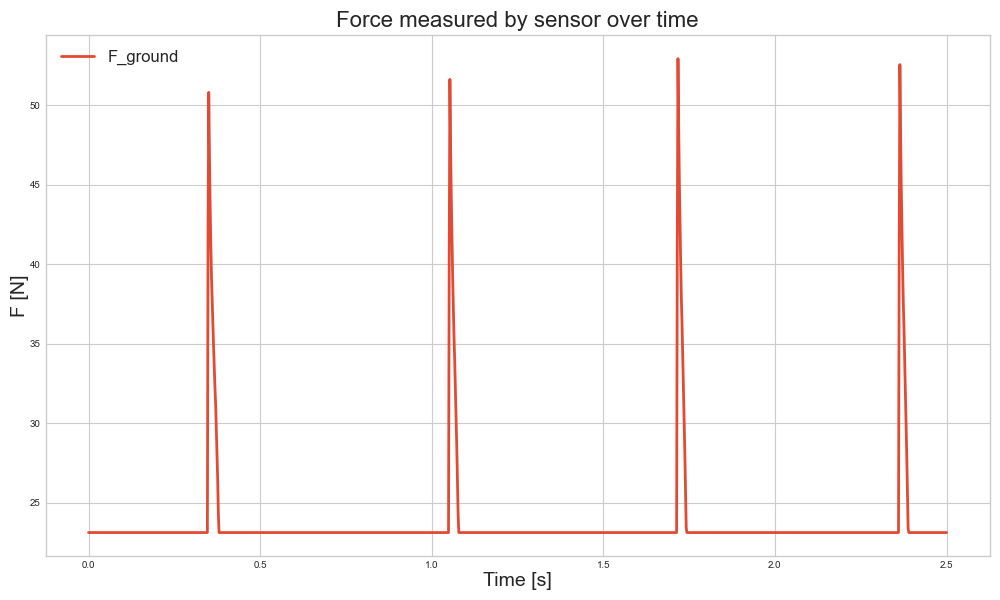
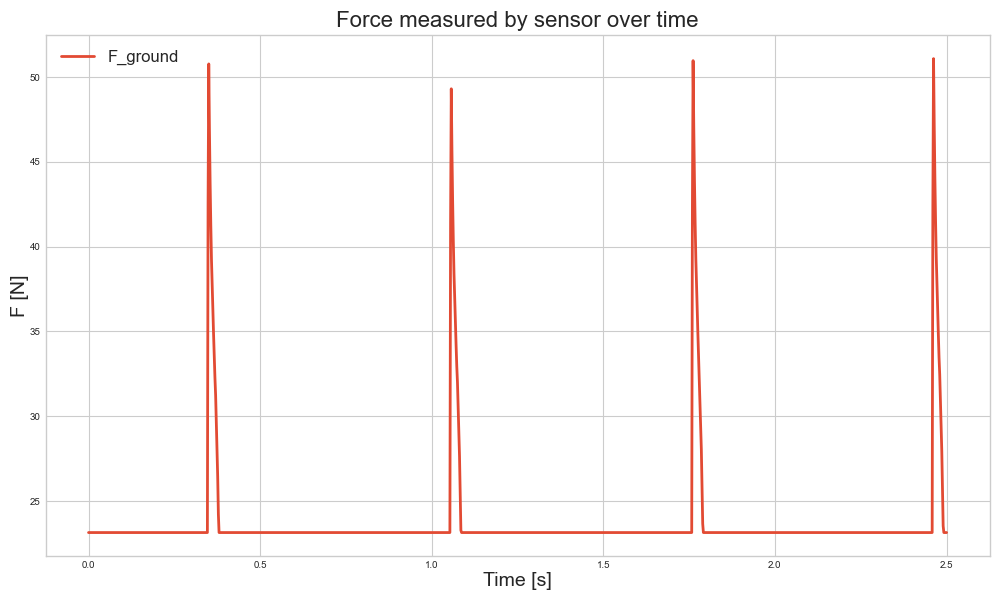
with the plot comparison file

diff --git a/Simulation/plot_comparison.py b/Simulation/plot_comparison.py
@@ -1,0 +1,178 @@
+import mujoco
+import numpy as np
+import matplotlib.pyplot as plt
+import copy
+
+# Importation de tes modules de contrôle
+# Assure-toi que controller.py et controller_lqr.py sont dans le même dossier
+import controller      
+import controller_lqr  
+
+plt.style.use('seaborn-v0_8-whitegrid')
+PI = np.pi
+
+def run_simulation(model_path, control_func, label, sim_time=2.5):
+    """
+    Exécute une simulation complète avec une fonction de contrôle donnée.
+    """
+    print(f"--- Running Simulation for: {label} ---")
+    
+    # Chargement du modèle
+    m = mujoco.MjModel.from_xml_path(model_path)
+    d = mujoco.MjData(m)
+    
+    # Conditions initiales
+    d.qpos[:] = np.array([0, -PI/4, PI/2]) 
+    d.qvel[:] = np.zeros(m.nv)
+    mujoco.mj_forward(m, d)
+    
+    steps = int(sim_time / m.opt.timestep)
+    # Initialisation du dictionnaire de données
+    data = {
+        "time": np.linspace(0, sim_time, steps),
+        "torque_leg": [],
+        "torque_upper": [],
+        "force": [],
+        "pos_x": [],
+        "pos_z": [], # Position du pied Z
+        "hip_z": [], # <-- NOUVEAU : Position de la hanche Z
+        "goal_x": [],
+        "goal_z": [],
+        "length": [],
+        "length_des": []
+    }
+    
+    sensor_id_contact = m.sensor('socle_contact').id
+    hip_sensor_id = m.sensor('hip_position').adr
+    
+    for _ in range(steps):
+        # Lecture capteurs
+        hip_pos = float(d.sensordata[hip_sensor_id]) # Hauteur de la hanche
+        
+        adr = m.sensor_adr[sensor_id_contact]
+        dim = m.sensor_dim[sensor_id_contact]
+        foot_force = d.sensordata[adr:adr+dim]
+        f_norm = np.linalg.norm(foot_force)
+        
+        # Appel contrôleur
+        try:
+            torque, pos, pos_des, L, Ld = control_func(m, d, -0.16, hip_pos, f_norm)
+        except TypeError:
+            torque, pos, pos_des, L, Ld = control_func(d, -0.16, hip_pos, f_norm)
+        
+        # Stockage des données
+        data["torque_upper"].append(torque[0])
+        data["torque_leg"].append(torque[1])
+        data["force"].append(f_norm)
+        data["pos_x"].append(pos[0])
+        data["pos_z"].append(pos[1])
+        data["hip_z"].append(hip_pos) # <-- NOUVEAU : On sauvegarde la hanche
+        data["goal_x"].append(pos_des[0])
+        data["goal_z"].append(pos_des[1])
+        data["length"].append(L)
+        data["length_des"].append(Ld)
+        
+        # Step simulation
+        d.ctrl = torque
+        mujoco.mj_step(m, d)
+        
+    return data
+
+def plot_comparison(results_dict):
+    colors = {"P": "red", "PD": "blue", "LQR": "green"}
+    styles = {"P": "--", "PD": "-", "LQR": "-."}
+    
+    # --- FIGURE 1: POSITION Z DU PIED ---
+    plt.figure(figsize=(10, 6))
+    plt.title("Comparison: Foot Z Position (Relative to Hip)", fontsize=16)
+    for label, data in results_dict.items():
+        plt.plot(data["time"], data["pos_z"], label=label, color=colors[label], linestyle=styles[label], linewidth=2)
+    plt.plot(results_dict["PD"]["time"], results_dict["PD"]["goal_z"], 'k', label="Goal (Swing)", linewidth=3, alpha=0.7)
+    plt.xlabel("Time [s]",fontsize=15)
+    plt.ylabel("Foot Position Z [m]",fontsize=15)
+    plt.legend(fontsize=15)
+    plt.tight_layout()
+    plt.savefig("./display/Compare_Foot_Z.png")
+    
+    # --- FIGURE 2: POSITION X DU PIED ---
+    plt.figure(figsize=(10, 6))
+    plt.title("Comparison: Foot X Tracking (Swing Stability)", fontsize=16)
+    for label, data in results_dict.items():
+        plt.plot(data["time"], data["pos_x"], label=label, color=colors[label], linestyle=styles[label], linewidth=2)
+    plt.plot(results_dict["PD"]["time"], results_dict["PD"]["goal_x"], 'k', label="Goal", linewidth=3, alpha=0.7)
+    plt.xlabel("Time [s]",fontsize=15)
+    plt.ylabel("Foot Position X [m]",fontsize=15)
+    plt.legend(fontsize=15)
+    plt.tight_layout()
+    plt.savefig("./display/Compare_Foot_X.png")
+
+    # --- FIGURE 3: TORQUES ---
+    fig, (ax1, ax2) = plt.subplots(2, 1, figsize=(10, 8), sharex=True)
+    ax1.set_title("Comparison: Torques", fontsize=16)
+    for label, data in results_dict.items():
+        ax1.plot(data["time"], data["torque_upper"], label=f"{label} Upper", color=colors[label], linewidth=2, linestyle=styles[label])
+        ax2.plot(data["time"], data["torque_leg"], label=f"{label} Leg", color=colors[label],  linewidth=2,linestyle=styles[label])
+    ax1.set_ylabel("Upper Torque [Nm]", fontsize=15)
+    ax1.legend(loc="upper right",fontsize=15)
+    ax2.set_ylabel("Leg Torque [Nm]", fontsize=15)
+    ax2.set_xlabel("Time [s]", fontsize=15)
+    ax2.legend(loc="upper right",fontsize=15)
+    plt.tight_layout()
+    plt.savefig("./display/Compare_Torques.png")
+
+    # --- FIGURE 4: FORCE ---
+    plt.figure(figsize=(10, 6))
+    plt.title("Comparison: Ground Reaction Force", fontsize=16)
+    for label, data in results_dict.items():
+        plt.plot(data["time"], data["force"], label=label, color=colors[label], linestyle=styles[label], alpha=0.8, linewidth=2)
+    plt.xlabel("Time [s]",fontsize=15)
+    plt.ylabel("Force [N]",fontsize=15)
+    plt.legend(fontsize=15)
+    plt.tight_layout()
+    plt.savefig("./display/Compare_Forces.png")
+
+    # --- FIGURE 5: LENGTH ---
+    plt.figure(figsize=(10, 6))
+    plt.title("Comparison: Virtual Leg Length (L)", fontsize=16)
+    for label, data in results_dict.items():
+        plt.plot(data["time"], data["length"], label=label, color=colors[label], linestyle=styles[label], linewidth=2)
+    plt.plot(results_dict["PD"]["time"], results_dict["PD"]["length_des"], 'k', label="L_des (Goal)", linewidth=3, alpha=0.8)
+    plt.xlabel("Time [s]",fontsize=15)
+    plt.ylabel("Length [m]",fontsize=15)
+    plt.legend(fontsize=15)
+    plt.tight_layout()
+    plt.savefig("./display/Compare_Lengths.png")
+
+    # --- FIGURE 6: HIP Z POSITION (NOUVEAU) ---
+    plt.figure(figsize=(10, 6))
+    plt.title("Comparison: Hip Absolute Vertical Position", fontsize=16)
+    for label, data in results_dict.items():
+        plt.plot(data["time"], data["hip_z"], label=label, color=colors[label], linestyle=styles[label], linewidth=2)
+    
+    plt.xlabel("Time [s]",fontsize=15)
+    plt.ylabel("Hip Height Z [m] (World Frame)",fontsize=15)
+    plt.legend(fontsize=15)
+    plt.tight_layout()
+    plt.savefig("./display/Compare_Hip_Z.png")
+    
+    print("All 6 comparison plots saved in ./display/")
+
+if __name__ == "__main__":
+    model_file = "ref_stand.xml"
+    sim_duration = 2.5
+    
+    all_results = {}
+    
+    # 1. PD
+    controller.mx = 10.0; controller.mz = 10.0
+    all_results["PD"] = run_simulation(model_file, controller.impedance_control, "PD", sim_time=sim_duration)
+    
+    # 2. P
+    controller.mx = 0.0; controller.mz = 0.0
+    all_results["P"] = run_simulation(model_file, controller.impedance_control, "P", sim_time=sim_duration)
+    
+    # 3. LQR
+    all_results["LQR"] = run_simulation(model_file, controller_lqr.impedance_lqr, "LQR", sim_time=sim_duration)
+    
+    plot_comparison(all_results)
+    plt.show()

diff --git a/Simulation/main.py b/Simulation/main.py
@@ -57,8 +57,8 @@ def simulate_free_motion(model_path, sim_time):
             dim = m.sensor_dim[sensor_id]       # Dimension of data 
             foot_force = d.sensordata[adr : adr + dim]
             f_norm = np.sqrt(foot_force[0]*foot_force[0] + foot_force[1]*foot_force[1] + foot_force[2]*foot_force[2])
-            torque, pos, pos_des, L, Ld = impedance_control(d= d, x_hip=-0.16, z_hip=hip_pos, f_ground=f_norm)
-            #torque, pos, pos_des, L, Ld = impedance_lqr(m=m, d= d, x_hip=-0.16, z_hip=hip_pos, f_ground=f_norm)
+            #torque, pos, pos_des, L, Ld = impedance_control(d= d, x_hip=-0.16, z_hip=hip_pos, f_ground=f_norm)
+            torque, pos, pos_des, L, Ld = impedance_lqr(m=m, d= d, x_hip=-0.16, z_hip=hip_pos, f_ground=f_norm)
             Force.append(f_norm)
             length.append(L)
             Torque_data.append(torque)
@@ -100,7 +100,7 @@ def simulate_free_motion(model_path, sim_time):
     ax2.plot(T, np.array(Torque_data)[:,0], label="Upper joint", linewidth=2)
     ax2.legend(loc='best', fontsize=12)
     plt.tight_layout()
-    plt.savefig("./display/Torque_PD")
+    plt.savefig("./display/Torque_LQR")
 
     plt.figure(figsize=(10, 6))
     plt.title("Force measured by sensor over time", fontsize=16)
@@ -109,7 +109,7 @@ def simulate_free_motion(model_path, sim_time):
     plt.plot(T, np.array(Force), label="F_ground", linewidth=2)
     plt.legend(loc='best', fontsize=12)
     plt.tight_layout()
-    plt.savefig("./display/Force_PD")
+    plt.savefig("./display/Force_LQR")
     
     plt.figure(figsize=(10, 6))
     plt.title("Joint positions over time", fontsize=16)
@@ -119,7 +119,7 @@ def simulate_free_motion(model_path, sim_time):
     plt.plot(T, np.array(Joint)[:,1], label="Leg joint", linewidth=2)
     plt.legend(loc='best', fontsize=12)
     plt.tight_layout()
-    plt.savefig("./display/Joint_PD")
+    plt.savefig("./display/Joint_LQR")
 
     position = np.array(position)
     goal = np.array(goal)
@@ -144,7 +144,7 @@ def simulate_free_motion(model_path, sim_time):
     ax2.plot(T, goal[:,1] , color='r', label="leg_ref", linewidth=2)
     ax2.legend(loc='best', fontsize=12)
     plt.tight_layout()
-    plt.savefig("./display/Position_PD")
+    plt.savefig("./display/Position_LQR")
 
     plt.figure(figsize=(10, 6))
     plt.title("Length in stance phase", fontsize=18)
@@ -154,7 +154,7 @@ def simulate_free_motion(model_path, sim_time):
     plt.plot(T, np.array(length), linewidth=2, label="L")
     plt.legend(loc='best', fontsize=12)
     plt.tight_layout()
-    plt.savefig("./display/Length_PD")
+    plt.savefig("./display/Length_LQR")
 
     print("Model=", model_path)
     print("Timestep =",timestep, "steps =",steps)

diff --git a/Simulation/controller.py b/Simulation/controller.py
@@ -12,16 +12,22 @@ ks = 7500 # N/m
 kd = 0.5 # Ns/m
 
 #Controller parameter: stiffness and damping PD swing leg 
-kx = 1.75 * 10 **(3)# N/m
-kz = 5.0 * 10 **(2) # N/m
-mx = 1.0 * 10 **(1) # Ns/m 
-mz = 1.0 * 10 **(1) # Ns/m 
-
-# Controller parameter : stiffness swing P leg
 # kx = 1.75 * 10 **(3)# N/m
 # kz = 5.0 * 10 **(2) # N/m
-# mx = 0  # Ns/m 
-# mz = 0 # Ns/m 
+# mx = 1.0 * 10 **(1) # Ns/m 
+# mz = 1.0 * 10 **(1) # Ns/m 
+
+# Controller parameter : stiffness swing P leg
+kx = 1.75 * 10 **(3)# N/m
+kz = 5.0 * 10 **(2) # N/m
+mx = 0  # Ns/m 
+mz = 0 # Ns/m 
+
+# goal position 
+Q_0 = -PI/4 # upper"
+Q_1 =  PI/2 # leg
+delta_goal_x = L1*np.sin(Q_0) + L2*np.sin(Q_0 + Q_1)
+delta_goal_z = L1*np.cos(Q_0) + L2*np.cos(Q_0 + Q_1)
 
 def forward_kinematics(q, dq,  x_hip, z_hip):
     q0 = float(q[0])
@@ -46,7 +52,7 @@ def forward_kinematics(q, dq,  x_hip, z_hip):
 
 def impedance_control(d, x_hip, z_hip, f_ground):
     Ld = 0.2 # desired leg length with all leg have a angle of pi/4 
-    pos_des = np.array([ x_hip, z_hip - 0.2])
+    pos_des = np.array([ x_hip-delta_goal_x, z_hip - delta_goal_z])
 
     # Joint state
     q = d.qpos[[1, 2]]

diff --git a/Simulation/controller_lqr.py b/Simulation/controller_lqr.py
@@ -11,6 +11,10 @@ m_leg = 15*10**(-3) # kg
 ks = 7500 # N/m
 kd = 0.5 # Ns/m
 
+Q_0 = -PI/4 # upper"
+Q_1 =  PI/2 # leg
+delta_goal_x = L1*np.sin(Q_0) + L2*np.sin(Q_0 + Q_1)
+delta_goal_z = L1*np.cos(Q_0) + L2*np.cos(Q_0 + Q_1)
 
 def forward_kinematics(q, dq,  x_hip, z_hip):
     q0 = float(q[0])
@@ -46,7 +50,7 @@ def compute_lqr_gain(M_inv):
     B[2:, :] = M_inv
     
     Q = np.diag([500, 500, 10, 10]) 
-    R = np.diag([10, 10])
+    R = np.diag([0.1, 0.1])
     
     P = scipy.linalg.solve_continuous_are(A, B, Q, R)
     K = np.linalg.inv(R) @ (B.T @ P)
@@ -86,7 +90,7 @@ def lqr_control(m, d, q_des, dq_des):
 
 def impedance_lqr(m, d, x_hip, z_hip, f_ground):
     Ld = 0.2 # desired leg length with all leg have a angle of pi/4 
-    pos_des = np.array([ x_hip, z_hip - 0.2])
+    pos_des = np.array([ x_hip-delta_goal_x, z_hip - delta_goal_z])
 
     # Joint state
     q = d.qpos[[1, 2]]

diff --git a/Simulation/README.md b/Simulation/README.md
@@ -1,0 +1,45 @@
+# 2-DOF Monopod Leg Simulation (ODRI)
+
+This project simulates a 2-degree-of-freedom robotic leg based on the Open Dynamic Robot Initiative (ODRI) architecture using the **MuJoCo** physics engine and Python.
+
+The simulation compares two control strategies for the swing phase during a jumping motion:
+1.  **Impedance Control + Cartesian PD**
+2.  **Impedance Control + Linear Quadratic Regulator (LQR)**
+
+🎥 **Demo Videos:** Videos of the simulation for both controllers are available on the OneDrive repository
+
+## 📂 Project Structure
+Inside the folder * `Simulation/`
+* `main.py`: The entry point of the simulation. Handles the simulation loop and data logging.
+* `controller.py`: Contains the standard Impedance Controller with a PD controller for the swing phase.
+* `controller_lqr.py`: Contains the Impedance Controller coupled with an LQR controller for the swing phase.
+* `ref_stand.xml`: The MuJoCo model file defining the robot and environment.
+* `display/`: Output folder where simulation plots are saved.
+
+## 🚀 How to Run
+
+1.  Ensure you have the required dependencies installed:
+    ```bash
+    pip install mujoco numpy matplotlib scipy
+    ```
+
+2.  Run the main script:
+    ```bash
+    python main.py
+    ```
+
+## ⚙ Switching Controllers
+
+To switch between the **Standard PD** controller and the **LQR** controller, you must modify `main.py`.
+
+1.  Open `main.py`.
+2.  Locate the control loop inside the `simulate_free_motion` function (around line 55).
+3.  **Comment out** the controller you do not want to use and **uncomment** the one you wish to test.
+
+**Example: Using the Standard PD Controller**
+```python
+# --- Standard Impedance Control (PD) ---
+torque, pos, pos_des, L, Ld = impedance_control(d=d, x_hip=-0.16, z_hip=hip_pos, f_ground=f_norm)
+
+# --- Impedance Control with LQR ---
+# torque, pos, pos_des, L, Ld = impedance_lqr(m=m, d=d, x_hip=-0.16, z_hip=hip_pos, f_ground=f_norm)
